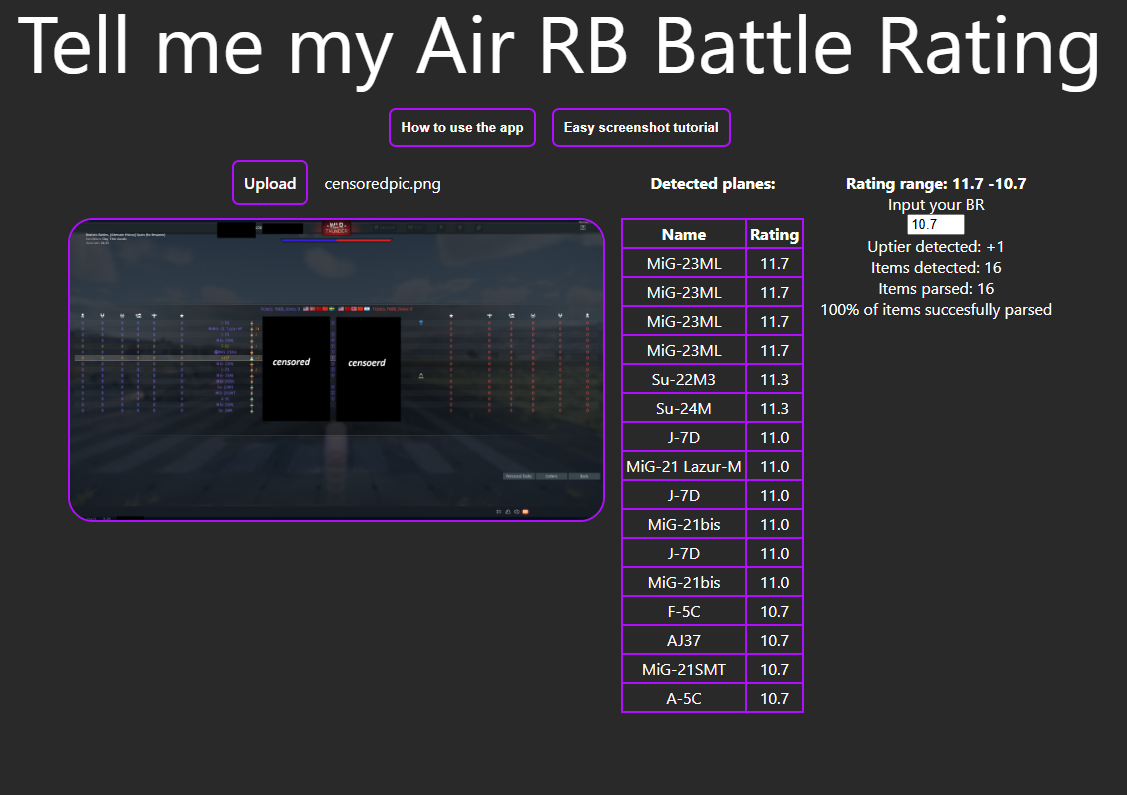
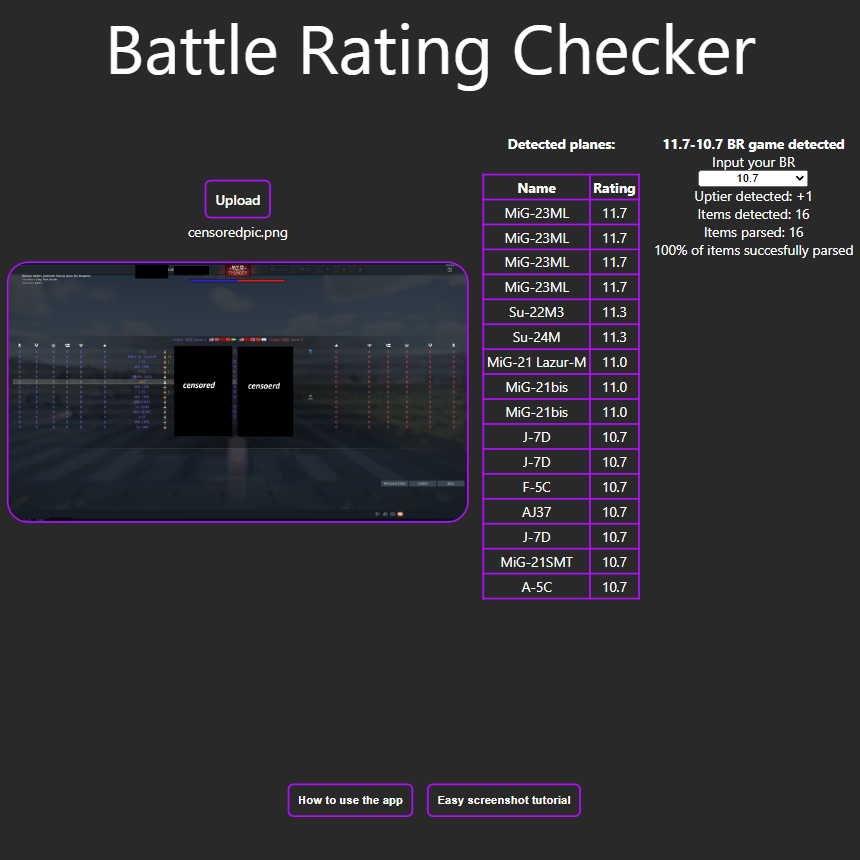
Fixed typo

Changed region(s): [[0.0, 0.1208, 0.9977, 0.966], [0.0, 0.0, 0.9977, 0.1208], [0.4233, 0.3925, 0.4535, 0.5132]]

diff --git a/src/App.css b/src/App.css
@@ -149,10 +149,12 @@ button:hover {
 
 .tutorialButtonHolder {
   position: absolute;
-  left: 0;
-  top: 0;
+  left: 50%;
+  transform: translateX(-50%);
+  bottom: 5%;
   display: flex;
   gap: 1rem;
+  margin-left: 5px;
 }
 
 .pageHeading {
